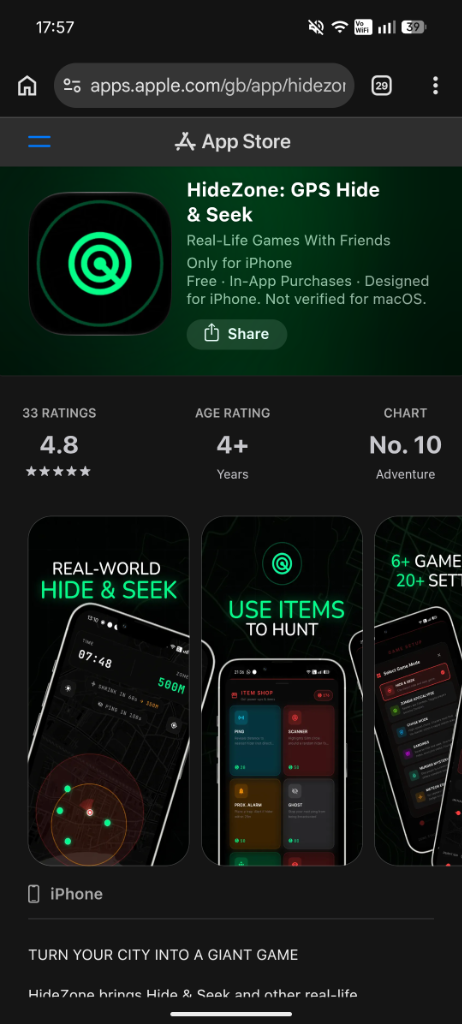
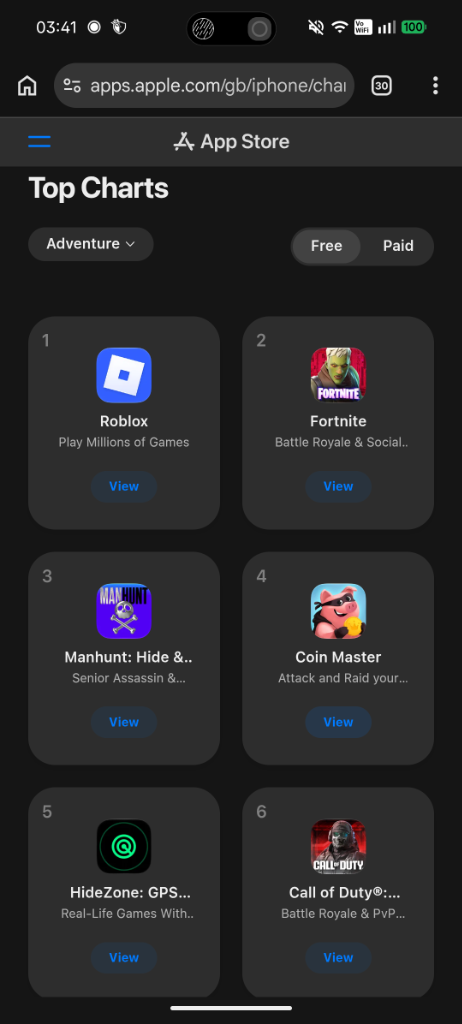
update top spot

diff --git a/app/src/data/projects.ts b/app/src/data/projects.ts
@@ -6,10 +6,10 @@ export const projects: Project[] = [
         slug: "hidezone",
         hasDetailPage: true,
         featured: true,
-        meta: "Solo build · 70,000+ downloads · #10 UK / #25 US App Store · 2025 - present",
+        meta: "Solo build · 70,000+ downloads · Top 5 UK App Store · 2025 - present",
         categories: ['mobile'],
         title: "HideZone: IRL GPS Hide & Seek",
-        shortDescription: "A real-time outdoor multiplayer game for iOS and Android, with live GPS, custom play zones, tactical items, and eight game modes. 70,000+ downloads, reaching #10 in the UK and #25 in the US App Store Adventure charts.",
+        shortDescription: "A real-time outdoor multiplayer game for iOS and Android, with live GPS, custom play zones, tactical items, and eight game modes. 70,000+ downloads, reaching the Top 5 in the UK App Store Adventure charts.",
         fullDescription: "HideZone turns any park or neighborhood into a multiplayer game board. I built and shipped the Flutter app end to end, from the host-authoritative game loop and Firebase synchronization to geofenced maps, items, subscriptions, ads, and both store releases.",
         tags: ["Flutter", "Dart", "Firebase", "Riverpod", "Geolocation", "Game Development"],
         techStack: [
@@ -23,7 +23,6 @@ export const projects: Project[] = [
         ],
         heroImage: "/images/projects/HideZoneMenu.jpg",
         galleryImages: [
-            "/images/projects/hidezone_08_app_store_charts.png",
             "/images/projects/hidezone_09_app_store_uk_charts.png",
             "/images/projects/hidezone_02_real_world_gameplay.jpg",
             "/images/projects/hidezone_05_items.jpg",
@@ -42,10 +41,10 @@ export const projects: Project[] = [
             problemImage: "",
             approach: "Built a host-authoritative game engine on top of Firebase Realtime Database. Eight game modes plug into isolated strategy bundles, while shared services handle location updates, zone rules, items, reconnects, maps, billing, ads, and privacy-safe diagnostics.",
             approachImage: "",
-            impact: "Designed, built, and shipped independently on Google Play and the App Store, reaching more than 70,000 organic downloads and placing #10 in the UK and #25 in the US on the App Store Adventure charts. The current architecture is backed by more than 2,200 Flutter tests, deterministic multiplayer simulations, traffic budgets, and automated checks around network ownership and wire compatibility.",
+            impact: "Designed, built, and shipped independently on Google Play and the App Store, reaching more than 70,000 organic downloads and peaking in the Top 5 (#5) on the UK App Store Adventure charts. The current architecture is backed by more than 2,200 Flutter tests, deterministic multiplayer simulations, traffic budgets, and automated checks around network ownership and wire compatibility.",
             metrics: [
                 { label: 'Downloads', value: '70,000+' },
-                { label: 'UK / US App Store', value: '#10 / #25' },
+                { label: 'UK App Store', value: 'Top 5' },
                 { label: 'Game Modes', value: '8' },
                 { label: 'Flutter Tests', value: '2,200+' }
             ],
@@ -64,7 +63,7 @@ export const projects: Project[] = [
                 { date: "Mar 2026", title: "Network Refactoring", description: "Reworked synchronization and polling to reduce unnecessary Realtime Database traffic." },
                 { date: "Apr 2026", title: "iOS Release", description: "Shipped to the Apple App Store with cross-platform multiplayer support." },
                 { date: "Aug 2026", title: "Architecture Rework", description: "Separated the host engine, mode rules, Firebase repositories, and UI ownership, then locked the behavior down with automated tests and traffic budgets." },
-                { date: "Oct 2026", title: "App Store Milestones", description: "Crossed 70,000 organic downloads, reaching #10 in the UK and #25 in the US App Store Adventure charts." },
+                { date: "Oct 2026", title: "App Store Milestone", description: "Crossed 70,000 organic downloads and reached the Top 5 in the UK App Store Adventure charts (#5)." },
             ]
         },
     },

diff --git a/app/src/data/about.ts b/app/src/data/about.ts
@@ -8,7 +8,7 @@ export const aboutContent: AboutContent = {
     bio: [
         "I am a Computer Science Master's student at TU Dresden. Alongside my studies, I work as an Automation & AI working student at Infineon (Siltectra), as a student assistant at the university, and as an independent software developer.",
         "At Infineon, I build internal applications and automate operational workflows, including an AI-assisted Jira ticket pipeline and improvements to a maintenance chatbot. At TU Dresden, my work spans computer vision, edge systems, knowledge graphs, and LLM evaluation for industrial maintenance.",
-        "As an independent developer, I build and run complete products. HideZone, my real-time GPS multiplayer game, has reached more than 70,000 downloads across Google Play and the App Store, reaching #10 in the UK and #25 in the US App Store Adventure charts. I have also delivered remote desktop and virtual-machine support tools for enterprise clients.",
+        "As an independent developer, I build and run complete products. HideZone, my real-time GPS multiplayer game, has reached more than 70,000 downloads across Google Play and the App Store, reaching the Top 5 in the UK App Store Adventure charts. I have also delivered remote desktop and virtual-machine support tools for enterprise clients.",
         "I work mainly with Python, Docker, Flutter, and TypeScript. I prefer clear system boundaries, useful tests, and software that remains dependable after it ships."
     ]
 };

diff --git a/app/src/data/experience.ts b/app/src/data/experience.ts
@@ -18,7 +18,7 @@ export const experience: Experience[] = [
         company: 'Self-Employed',
         period: '04/2025 - Present',
         description: [
-            'Built and now operate HideZone, a real-time GPS multiplayer game with more than 70,000 organic downloads across Google Play and the App Store, reaching #10 in the UK and #25 in the US App Store Adventure charts.',
+            'Built and now operate HideZone, a real-time GPS multiplayer game with more than 70,000 organic downloads across Google Play and the App Store, reaching the Top 5 in the UK App Store Adventure charts.',
             'Delivered a remote desktop client with time-bound authentication for an enterprise customer.',
             'Built a mail-routing service that forwards incoming messages to users on dynamically assigned virtual machines.',
         ]
